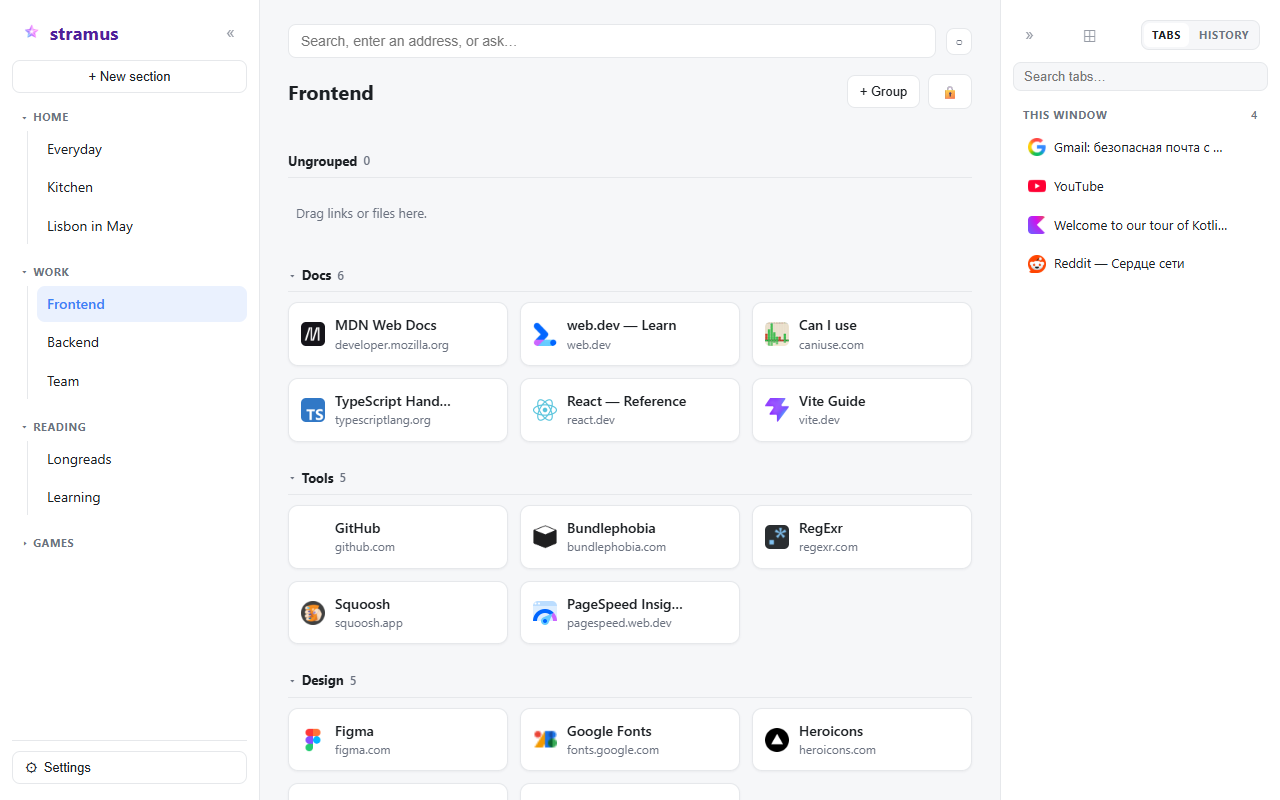
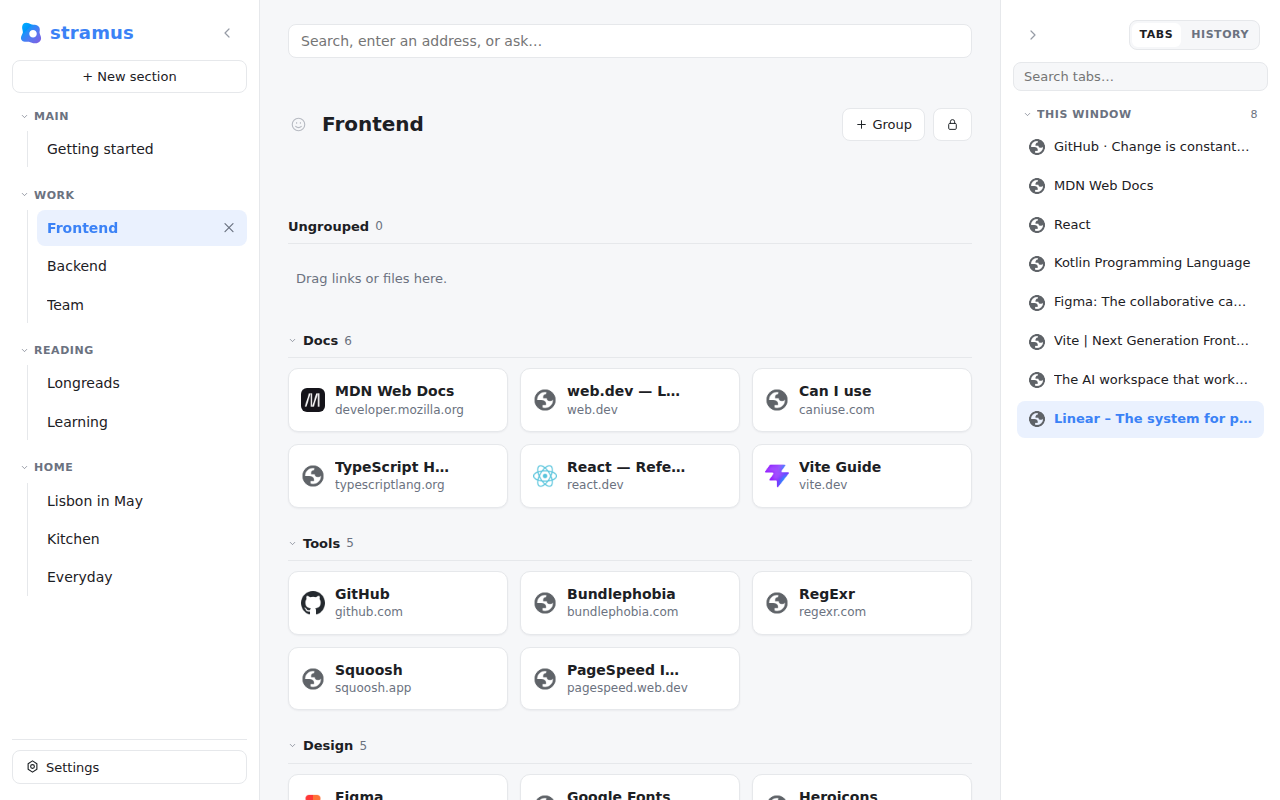
Пересобирает иконку и скриншоты магазина, попутно чиня их инструмент
Витрина показывала прежний знак: иконка и все пять кадров сняты 31 июля, а
знак сменился 14 августа. Иконку теперь делает `store-icon.mjs` — рендерит
`logo.svg` тем же Chromium, что уже стоит для скриншотов, потому что знак не
картинка, а маска поверх градиента на `oklch(from var(--accent) …)`, и
только браузер эти цвета разрешает; руками подобранное приближение было бы
вторым, чуть-чуть неправильным фирменным синим.

Скриншоты 01, 02, 03 и 05 сняты заново. Чтобы это стало возможным, инструмент
пришлось починить в трёх местах:

- все пять кадров падали на онбординг-модалке, чей backdrop съедает клики
  сценариев. `openApp` ставит `onboardingSeen` и грузит страницу второй раз:
  кадр для листинга — это приложение глазами того, кто им уже пользуется;
- `--headless` не работал вовсе. При `headless: true` Playwright запускает
  headless shell, который расширений не поддерживает: расширение молча не
  грузится, и первым это замечает поиск его id. Помогает `channel: 'chromium'`;
- id расширения теперь читается из URL service worker'а — он появился в
  1.4.0. `chrome://newtab/` остался запасным путём: headless отвергает его
  с ERR_INVALID_URL.

Сценарий 02 больше не тащит вкладку на фоне пустой коллекции: открыта
заполненная Frontend, а вкладка идёт на Backend — видно и то, что уже
сохранено, и то, куда кладут.

В CI-джобу добавлен fonts-noto-cjk: без CJK-шрифтов кадр настроек рисует
日本語 и 한국어 квадратиками, то есть врёт о поддержке языков.
[…]

diff --git a/tools/screenshots/README.md b/tools/screenshots/README.md
@@ -56,6 +56,19 @@ cp output/0{1,2,3,4,5}-*.png ../../store/screenshots/
 Surfaces mapped but not yet scripted (rename/lock flow variants, the account/sign-in dialog, tab
 triage, the file viewer, per-language listing shots): same pattern, just not written yet.
 
+## The store icon
+
+[`store-icon.mjs`](store-icon.mjs) renders `store/store-icon-128.png` — the 128×128 the Web Store asks
+for separately from the package. It is here rather than in `tools/icon-data` because it needs the same
+Chromium: the mark is a mask over an `oklch(from …)` gradient, and only a browser resolves those, which
+is what keeps the store icon the same blue as the app's own header.
+
+```sh
+node store-icon.mjs
+```
+
+Run it whenever `logo.svg` changes.
+
 ## The promo video's clips
 
 [`capture-promo-clips.mjs`](capture-promo-clips.mjs) is a separate one-off script (not in
@@ -80,17 +93,41 @@ representative frame. See `../promo-video/README.md` for what happens to the out
   `dragstart`/`dragover`/`drop`), not pointer events — Playwright's built-in `locator.dragTo()`
   synthesizes mouse movement, which these handlers don't listen for. `lib/dom.mjs`'s `dragHold`/
   `dragDrop` dispatch real `DragEvent`/`DataTransfer` objects from inside the page instead.
-- **Resolving the extension's ID**: the manifest has no `background.service_worker` — the new-tab
-  override is a plain page, not a script Chrome runs in the background — so there is no
-  `serviceworker` context event to wait for (waiting for one, as an earlier version of
-  `lib/launch.mjs` did, just times out). `resolveExtensionId` instead navigates to
-  `chrome://newtab/`, which Chrome itself redirects to the overriding extension's page, and reads
-  the (per-launch random) ID back off the resolved URL.
-- **Headless / CI**: Chromium's headless mode has historically been unreliable with loaded
-  extensions depending on version; the CI workflow runs headed under `xvfb` instead, which is the
-  well-trodden path. `--headless` here is for local convenience only — try it, and fall back to
-  dropping `--headless` (or wrapping the command in `xvfb-run` yourself) if a shot silently comes back
-  blank.
+- **Resolving the extension's ID**: since 1.4.0 the manifest *does* declare a
+  `background.service_worker` (background.js, for saving a page with no stramus tab open), and its URL
+  carries the per-launch random ID — so `resolveExtensionId` asks Playwright for the worker and reads
+  the ID off that. The old route is kept behind it: `chrome://newtab/` redirects to whichever extension
+  overrides the page. It is the fallback for a worker that has not woken yet, and it is what the tool
+  used before there was a worker at all — but it cannot be the first choice any more, headless Chromium
+  refusing `chrome://newtab/` outright with `ERR_INVALID_URL`.
+- **Headless / CI**: `--headless` works, with one catch that costs an afternoon if you meet it blind.
+  Playwright's `headless: true` runs the *headless shell*, a build with no extension support at all:
+  the extension never loads, nothing says so, and the first symptom is the ID lookup failing.
+  `lib/launch.mjs` passes `channel: 'chromium'` alongside `headless` for exactly this — that picks the
+  full browser in its own headless mode, which does load extensions. The CI workflow still runs headed
+  under `xvfb`; both work.
+- **Fonts**: the settings shot lists all eleven interface languages, so a machine without CJK coverage
+  renders 日本語 and 한국어 as empty boxes and quietly produces a screenshot that libels the product.
+  `sudo apt-get install fonts-noto-cjk` (the CI workflow does this). On WSL, where Windows already has
+  the fonts and `sudo` may not be wanted, point fontconfig at them for the one run instead — no system
+  or home config touched:
+
+  ```sh
+  cat > /tmp/fonts.conf <<'EOF'
+  <?xml version="1.0"?>
+  <!DOCTYPE fontconfig SYSTEM "fonts.dtd">
+  <fontconfig>
+    <include ignore_missing="yes">/etc/fonts/fonts.conf</include>
+    <dir>/mnt/c/Windows/Fonts</dir>
+    <cachedir>/tmp/fontcache</cachedir>
+  </fontconfig>
+  EOF
+  FONTCONFIG_FILE=/tmp/fonts.conf node capture.mjs --shot 05-settings --headless
+  ```
+- **The onboarding modal**: a first-ever open shows it, and its backdrop eats every click a scenario
+  makes — which is how all five shots failed the first time this ran against a build newer than the
+  shots themselves. `openApp` now sets `onboardingSeen` and reloads, so scenarios see the app as
+  somebody who already uses it does.
 - **The AI assistant shot** requires Chrome 138+ with the on-device model already downloaded (not
   just downloadable — see `checkLocalAiAvailable` in `lib/dom.mjs`), same requirement
   `screenshots.md` documents for the manual procedure. It's the one shot most likely to skip in a
